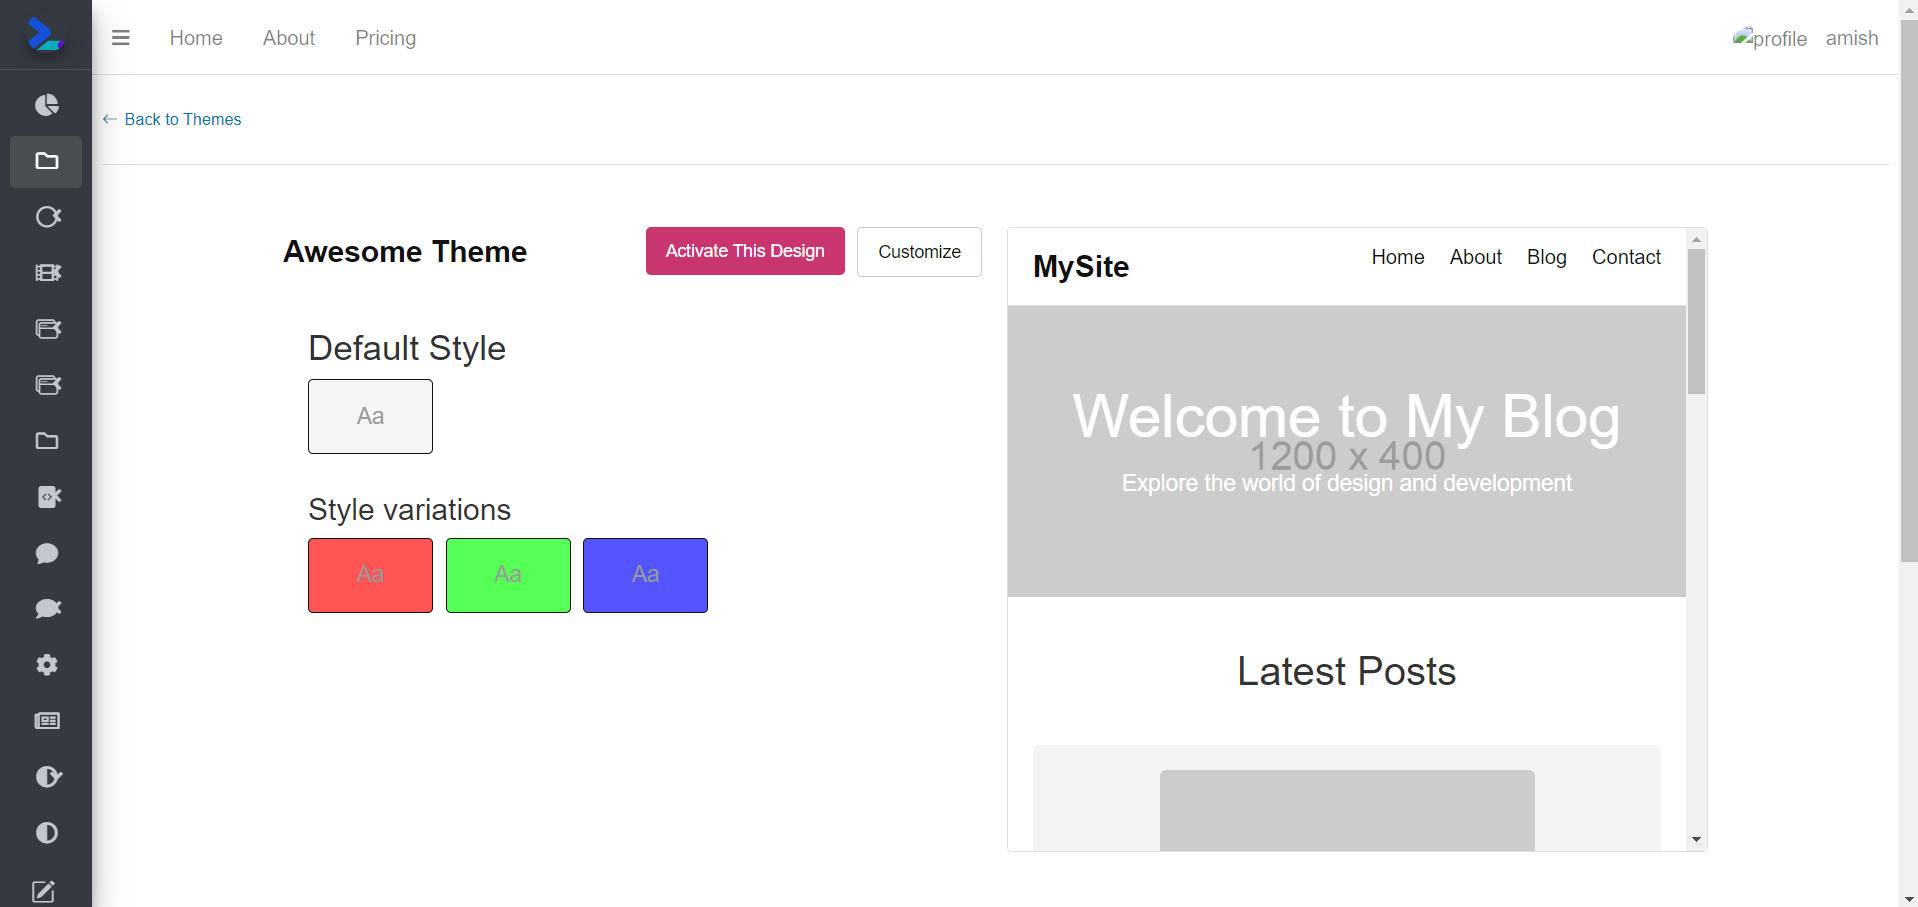
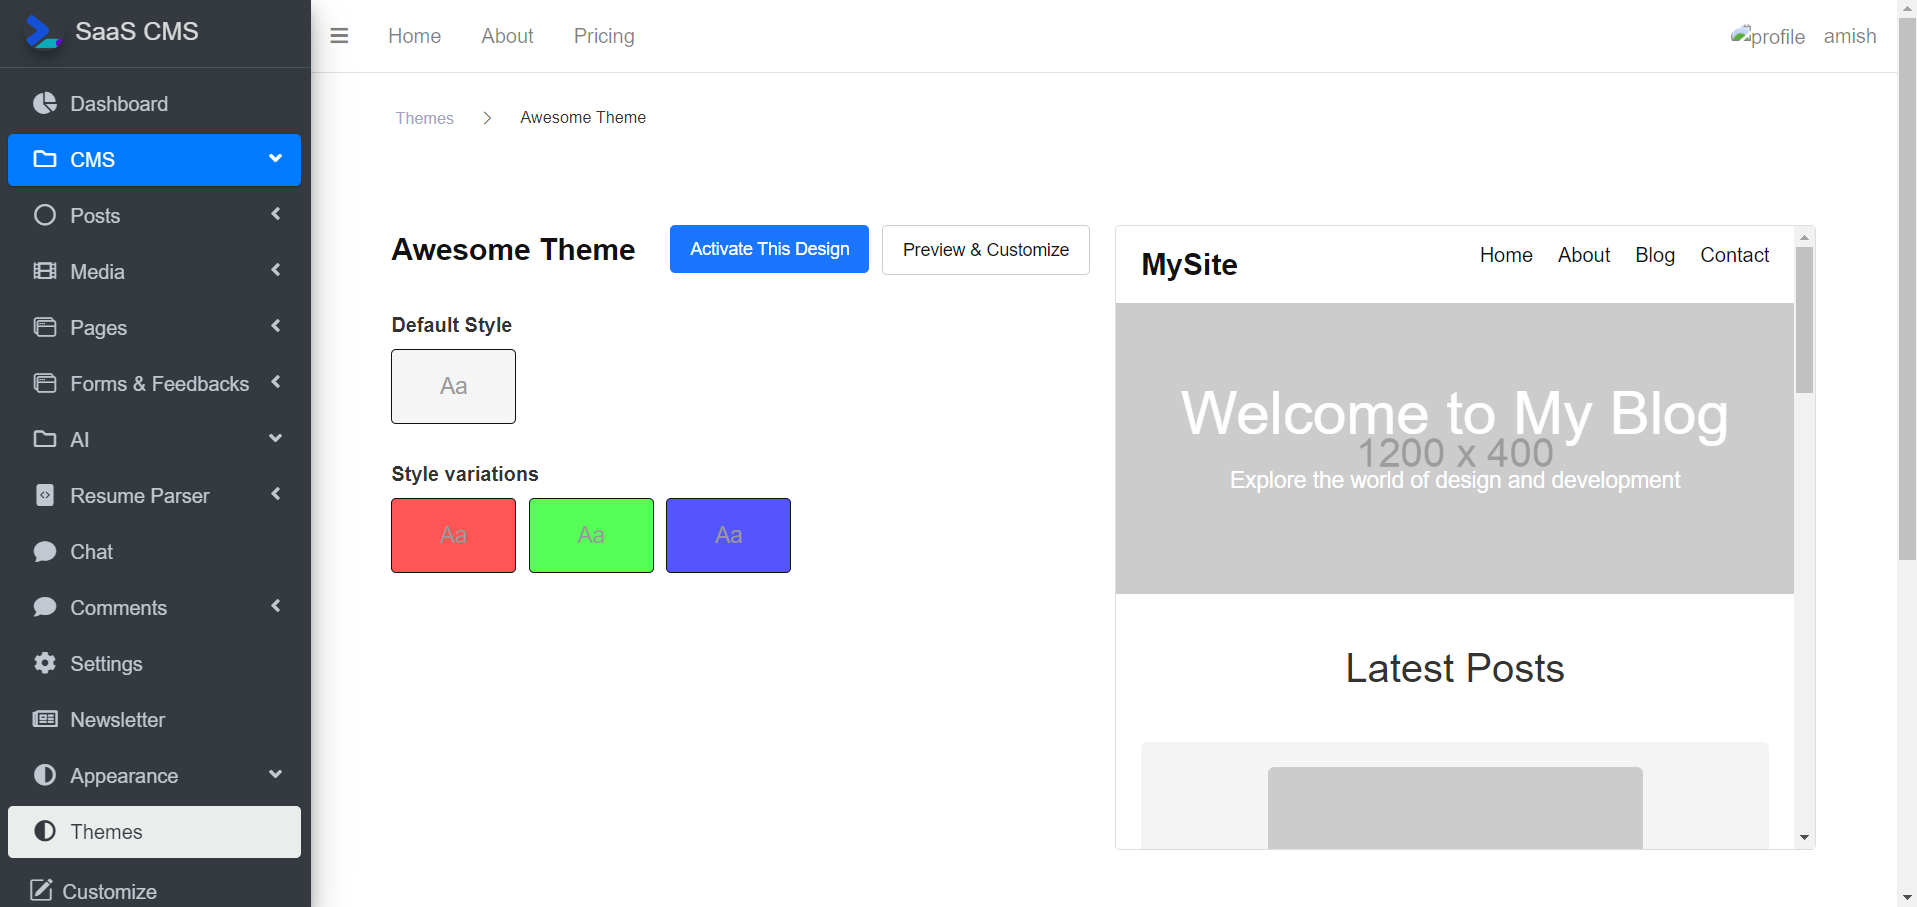
theme detail page fixed

diff --git a/templates/themes/theme_activation.html b/templates/themes/theme_activation.html
@@ -4,19 +4,18 @@
 
 {% block content %}
 <style>
-    .navbar {
+    .theme-nav {
         display: flex;
-        justify-content: space-between;
         align-items: center;
-        background-color: #f4f4f9;
+        background-color: #fff;
         padding: 10px 20px;
-        border-bottom: 1px solid #ddd;
+
     }
 
-    .navbar .back-button {
+    .theme-nav .back-button {
         background-color: transparent;
         border: none;
-        color: #0073aa;
+        color: #a3a3c2;
         font-size: 13px;
         cursor: pointer;
         text-decoration: none;
@@ -24,10 +23,18 @@
         align-items: center;
         margin-top: 15px;
         margin-bottom: 15px;
+        margin-left: 40px;
+        margin-right: 20px;
     }
 
-    .navbar .back-button i {
-        margin-right: 5px;
+    .theme-nav i {
+        font-size: 13px;
+        margin-right: 20px;
+    }
+
+    .theme-nav p {
+        font-size: 13px;
+        margin-top: 15px;
     }
 
     .container {
@@ -71,7 +78,7 @@
     }
 
     .theme-action-button {
-        background-color: #c9356e;
+        background-color: #1a75ff;
         color: white;
         border: #ab235a;
         font-size: 14px;
@@ -93,7 +100,7 @@
     }
 
     .theme-action-button:hover {
-        background-color: #ab235a;
+        background-color: #005ce6;
     }
 
     .theme-customize-button:hover {
@@ -102,12 +109,17 @@
 
     .default-style {
         margin-top: 20px;
-        padding: 20px;
+
         border-radius: 4px;
     }
 
-    .default-style h4 {
+    .default-style h6 {
         margin-top: 30px;
+    }
+
+    h6 {
+        font-weight: bold;
+        margin-bottom: 10px;
     }
 
     .color-options {
@@ -222,12 +234,14 @@
         width: 375px;
         height: 667px;
     }
+
+
 </style>
 
-<div class="navbar" style="margin-bottom: 50px;">
+<div class="theme-nav" style="margin-bottom: 50px;">
     <a href="{{ url_for('all_themes') }}" class="back-button">
-        <i class="bi bi-arrow-left"></i> Back to Themes
-    </a>
+        Themes
+    </a> <i class="bi bi-chevron-right"></i> <p>{{ theme_name }}</p>
 </div>
 
 <div class="container theme-container">
@@ -244,16 +258,16 @@
     <button type="submit" class="theme-action-button">Activate This Design</button>
 </form>
 
-    <a href="{{ url_for('user_theme_customization', theme_name=theme_name, theme_id=theme_id) }}" class="theme-customize-button">Customize</a>
+    <a href="{{ url_for('user_theme_customization', theme_name=theme_name, theme_id=theme_id) }}" class="theme-customize-button">Preview & Customize</a>
 </div>
         </div>
 
         <div class="default-style">
-            <h3>Default Style</h3>
+            <h6>Default Style</h6>
             <div class="color-option" style="background-color: #f5f5f5;" data-name="Default" onclick="changeBackgroundColor('#f5f5f5')">
 
             </div>
-            <h4>Style variations</h4>
+            <h6>Style variations</h6>
             <div class="color-options">
                 <div class="color-option" style="background-color: #ff5555;" data-name="Red" onclick="changeBackgroundColor('#ff5555')">
 

diff --git a/templates/base.html b/templates/base.html
@@ -20,6 +20,7 @@
     .content-wrapper {
       background-color: #ffffff;
     }
+
   </style>
   {% block styles %}
   {% endblock %}
@@ -125,7 +126,7 @@
             </a>
           </li>
            <li class="nav-item menu-open">
-            <a class="nav-link {% if request.endpoint == 'user_all_post' or request.endpoint == 'view_post'  or request.endpoint == 'get_post' or request.endpoint == 'add_post' or request.endpoint == 'admin_edit_post' or request.endpoint == 'add_category' or request.endpoint == 'update_category' or request.endpoint == 'user_all_category' or request.endpoint == 'user_all_subcategory' or request.endpoint == 'get_subcategories' or request.endpoint == 'add_subcategory' or request.endpoint == 'update_subcategory' or request.endpoint == 'add_tag' or request.endpoint == 'edit_tag' or request.endpoint == 'user_all_tag' or request.endpoint == 'user_post_list' or request.endpoint == 'media' or request.endpoint == 'user_all_medias' or request.endpoint == 'newsletter_subscribers' or request.endpoint == 'get_all_comment' or request.endpoint == 'user_all_pages' or request.endpoint == 'add_page' or request.endpoint == 'chatbot' or request.endpoint == 'all_themes' %}active{% endif %}" href="{{ url_for('user_all_post') }}">
+            <a class="nav-link {% if request.endpoint == 'user_all_post' or request.endpoint == 'view_post'  or request.endpoint == 'get_post' or request.endpoint == 'add_post' or request.endpoint == 'admin_edit_post' or request.endpoint == 'add_category' or request.endpoint == 'update_category' or request.endpoint == 'user_all_category' or request.endpoint == 'user_all_subcategory' or request.endpoint == 'get_subcategories' or request.endpoint == 'add_subcategory' or request.endpoint == 'update_subcategory' or request.endpoint == 'add_tag' or request.endpoint == 'edit_tag' or request.endpoint == 'user_all_tag' or request.endpoint == 'user_post_list' or request.endpoint == 'media' or request.endpoint == 'user_all_medias' or request.endpoint == 'newsletter_subscribers' or request.endpoint == 'get_all_comment' or request.endpoint == 'user_all_pages' or request.endpoint == 'add_page' or request.endpoint == 'chatbot' or request.endpoint == 'all_themes' or request.endpoint == 'theme_detail' %}active{% endif %}" href="{{ url_for('user_all_post') }}">
               <i class="far fa-regular fa-folder nav-icon"></i>
               <p>
                 CMS
@@ -309,7 +310,7 @@
     </a>
                 <ul class="nav nav-treeview">
               <li class="nav-item">
-                <a href="{{ url_for('all_themes') }}" class="nav-link {% if request.endpoint == 'all_themes' %} active {% endif %}">
+                <a href="{{ url_for('all_themes') }}" class="nav-link {% if request.endpoint == 'all_themes' or request.endpoint == 'theme_detail' %} active {% endif %}">
                   <i class="fas fa-adjust nav-icon"></i>
                   <p>Themes</p>
                 </a>
